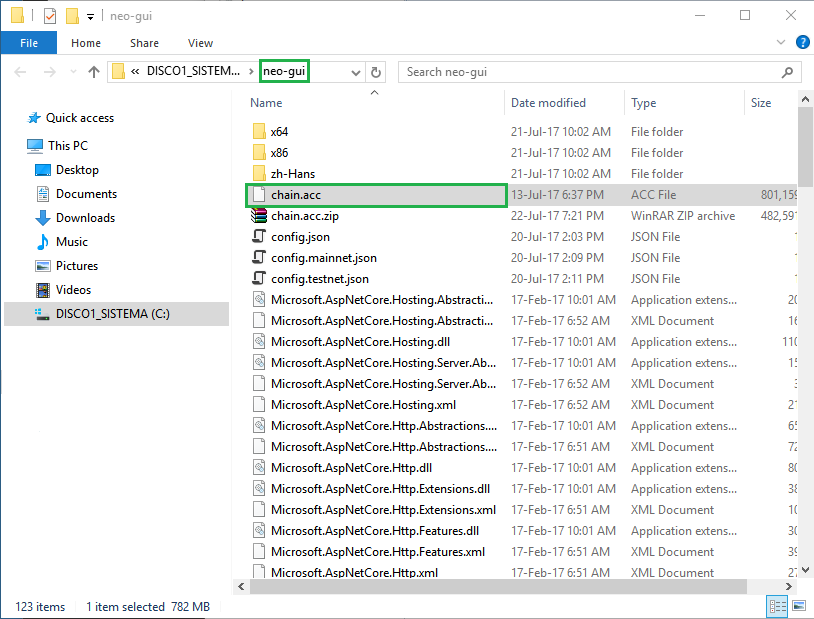
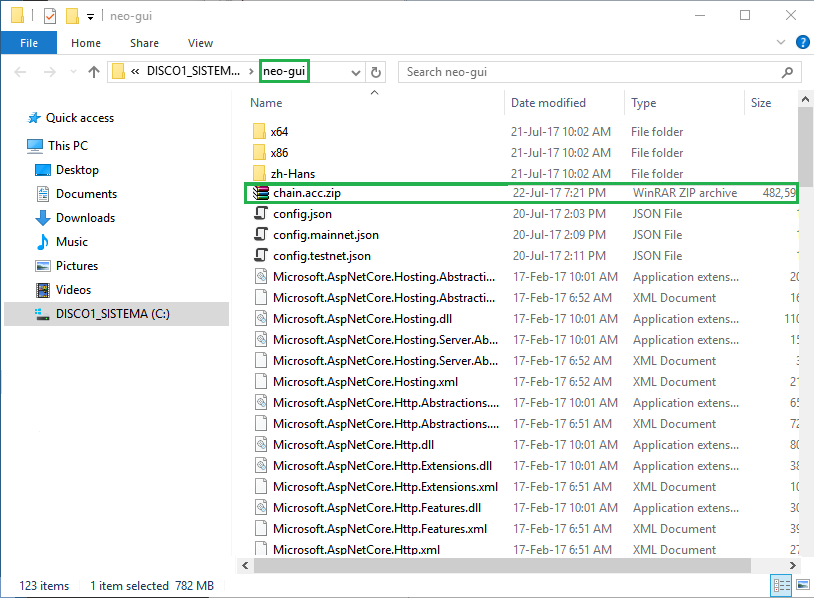
ES-minor-review-1.0.4 (#153)
* ES-minor-review-1.0.4

* ES-minor-review-1.0.4

* ES-minor-review-1.0.4

* ES-minor-review-1.0.4

* Update gui.md

* ES-minor-review-1.0.4

diff --git a/es-es/node/gui.md b/es-es/node/gui.md
@@ -370,7 +370,7 @@ Click en `Ok`y le indicamos donde guardar el archivo.
 
 Una vez generado el archivo aplicaremos el fichero en una entidad certificadores para que nos emitan el certificado. Una vez emitido importaremos el certificado en el almacén **Personal**.
 
-<img style="vertical-align: middle" src="assets/gui/gui_41.png">
+/<img style="vertical-align: middle" src="assets/gui/gui_41.png">
 
 Una vez importado, click en la dirección con el botón derecho, click en `Import` y click en `Import from Certificate`, selecionamos el certificado y click en `Ok`.
 
@@ -465,7 +465,7 @@ Esta funcion se usa para registrar un candidato en la blockchain como bookkeeper
 
 Click en `Advanced` y click en `Election`
 
-<img style="vertical-align: middle" src="assets/gui/gui_57.png">
+<img style="vertical-align: middle" src="/assets/gui_57.png">
 
 El regitro de activos requiere una cantidad de NeoGas. En la red principal (MainNet) la tarifa es 1000 NeoGas y en la red de pruebas (TestNet) de 10 NeoGas.
 
@@ -473,21 +473,11 @@ El regitro de activos requiere una cantidad de NeoGas. En la red principal (Main
 
 Descagar los bloques del siguiente enlace [https://www.neo.org/client/chain.acc.zip](https://www.neo.org/client/chain.acc.zip) 
 
-Una vez descargado asegurate que el cliente no se está ejecutando y descomprime el fichero `chain.acc.zip`en la ruta donde se encuentra el cliente PC `neo-gui`, tal y como se muestra en la imagen:
+Una vez descargado asegurate que el cliente no se está ejecutando y deja el fichero en la raiz del directorio donde se encuentra el ejecutable `Neo-gui.exe`. Al iniciar el cliente, el cliente descromprimirá el fichero zip y comenzará a cargar los bloques.
 
-<img style="vertical-align: middle" src="/assets/gui_58.png">
+><img style="vertical-align: middle" src="/assets/gui_58.png">
 
->[!TIP] 
-> En el caso de no descomprimir el fichero al arrancar el cliente, este lo descomprimirá y comenzará a cargar los 
-> bloques para hacer la sincronización offline.
-
-Elimina el archivo Zip. NO elimines el archivo `chain.acc`, arranca el cliente PC y en ese momento empezará a sincronizar.
-Al cabo de un tiempo, el cliente estará totalmente sincronizado.
-
-<img style="vertical-align: middle" src="/assets/gui_59.png">
-
->[!TIP] 
-> A nivel informativo: Al acabar la sincronización de forma automática se borra el fichero `chain.acc` y la carpeta `Chain` se crea en la raiz del directorio donde se encuentra el cliente `NEO-gui`
+Una vez cargado los bloques el programa eliminará el fichero zip.
 
 ><img style="vertical-align: middle" src="/assets/gui_60.png">
 

diff --git a/es-es/node/testnet.md b/es-es/node/testnet.md
@@ -26,13 +26,14 @@ Source code | [GitHub](https://github.com/neo-project/neo-gui/) | [GitHub](https
 
 ## Configurar el cliente para la red de pruebas
 
-1. Si usas el cliente GUI `NEO-gui` dentro de la carpeta donde se encuentra el ejecutable copia el contenido de `config.testnet.json` en `config.json`  tal y como se muestra en la imagen.
+1. Si usas el cliente GUI `NEO-gui` dentro de la carpeta donde se encuentra el ejecutable copia el contenido de
+`protocol.testnet.json` en `protocol.json` tal y como se muestra en la imagen.
  
-s  <img style="vertical-align: middle" src="/assets/testnet_1.png">
+  <img style="vertical-align: middle" src="/assets/testnet_1_v2.png">
 
-2. Y el contenido de `protocol.testnet.json` en `protocol.json`
+2. Y el contenido de `config.testnet.json` en `config.json`
 
-  <img style="vertical-align: middle" src="/assets/testnet_2.png">
+  <img style="vertical-align: middle" src="/assets/testnet_2_v2.png">
 
 
 > [!NOTE]
